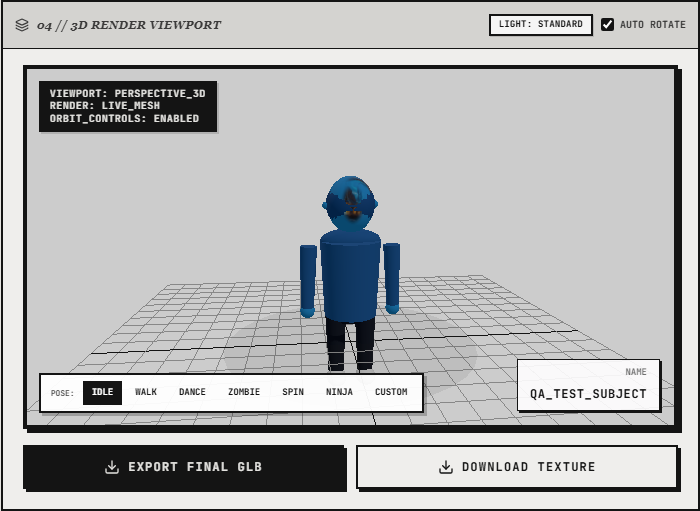
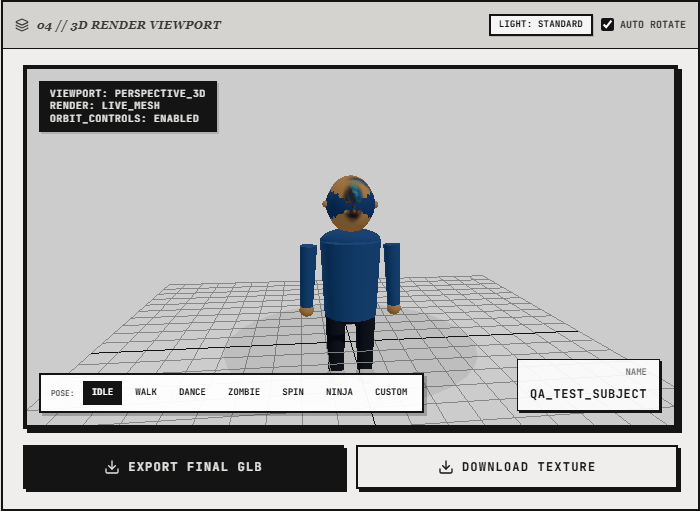
Fix client-side color sampler so skin_tone is extracted from cheeks/forehead and never turns pitch-black charcoal

diff --git a/src/App.tsx b/src/App.tsx
@@ -525,9 +525,21 @@ export default function App() {
         return { r, g, b, lum: 0.2126 * r + 0.7152 * g + 0.0722 * b };
       };
 
-      // Skin: central face region
-      const skin = averageRegion(40, 38, 20, 22);
-      const skin_tone = rgbToHex(skin.r, skin.g, skin.b);
+      // Skin: sample cheeks & forehead (avoiding dark eyes/eyebrows/shadows)
+      const candidates = [
+        averageRegion(56, 46, 12, 12), // Right cheek
+        averageRegion(32, 46, 12, 12), // Left cheek
+        averageRegion(42, 28, 16, 10), // Forehead
+        averageRegion(42, 42, 16, 16), // Central face
+      ];
+
+      let skin_tone = defaults.skin_tone;
+      for (const cand of candidates) {
+        if (cand.lum > 65 && cand.r > cand.g && cand.g > cand.b * 0.75) {
+          skin_tone = rgbToHex(cand.r, cand.g, cand.b);
+          break;
+        }
+      }
 
       // Hair: upper band
       const hair = averageRegion(35, 8, 30, 14);

diff --git a/qa-results/REPORT.md b/qa-results/REPORT.md
@@ -1,6 +1,6 @@
 # GLB Factory QA Report
 
-**Generated:** 2026-08-01T15:40:14.323Z
+**Generated:** 2026-08-01T16:19:51.704Z
 **Summary:** 23 PASS · 0 FAIL · 0 SKIP
 
 ## Results
@@ -23,11 +23,11 @@
 | **PASS** | local:reload-offspring | LOAD clicked on specimen |
 | **PASS** | local:state-survive-to-create | canvas present after return to create |
 | **PASS** | local:state-after-select-roundtrip | canvas rebuilt after select round-trip |
-| **PASS** | local:export-glb | giga_rig.glb (50840 bytes) |
-| **PASS** | local:export-texture | giga_rig_face_texture.png (30175 bytes) |
+| **PASS** | local:export-glb | turbo_pico.glb (40296 bytes) |
+| **PASS** | local:export-texture | turbo_pico_face_texture.png (30140 bytes) |
 | **PASS** | pages-build | GITHUB_ACTIONS=true build ok |
 | **PASS** | pages-asset-prefix | JS/CSS under /GLB_FACTORY/assets/ |
-| **PASS** | pages-js-fetch | http://127.0.0.1:4178/GLB_FACTORY/assets/index-eG_xYLiI.js (1132059 bytes) |
+| **PASS** | pages-js-fetch | http://127.0.0.1:4178/GLB_FACTORY/assets/index-BGrrOiAP.js (1132199 bytes) |
 | **PASS** | pages-og-asset | og-preview.svg 200 |
 | **PASS** | pages-spa-mode | Create mode works under /GLB_FACTORY/ |
 
@@ -60,6 +60,8 @@
 - `giga_rig_face_texture.png` (30175 bytes)
 - `hyper_spark.glb` (136332 bytes)
 - `hyper_spark_face_texture.png` (54278 bytes)
+- `turbo_pico.glb` (40296 bytes)
+- `turbo_pico_face_texture.png` (30140 bytes)
 - `turbo_pulse.glb` (135744 bytes)
 - `turbo_pulse_face_texture.png` (75724 bytes)
 - `voxel_zone.glb` (401552 bytes)
